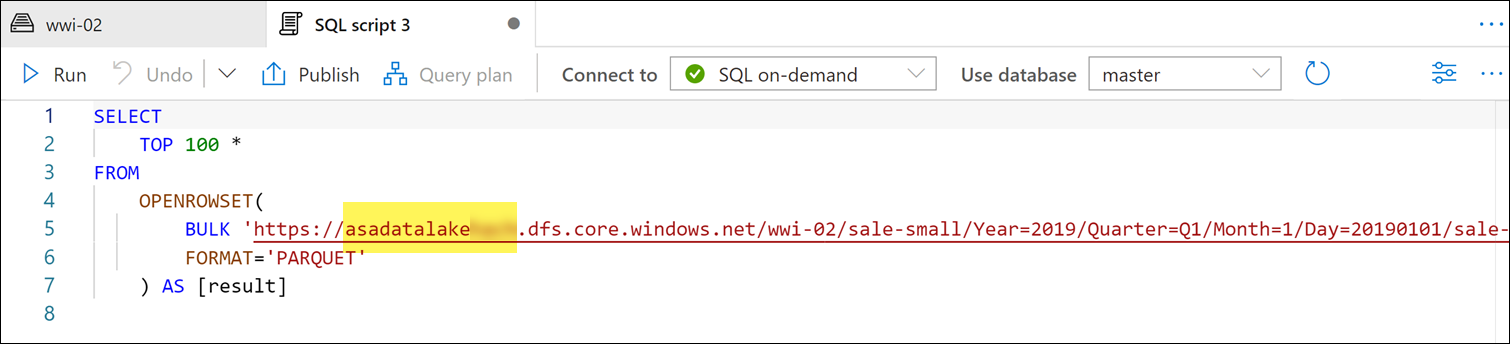
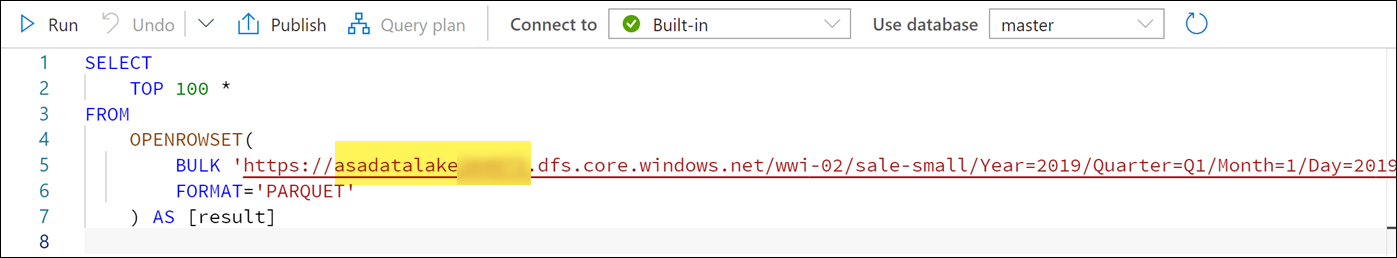
Update screenshots

diff --git a/labs/day2/lab4/README.md b/labs/day2/lab4/README.md
@@ -568,9 +568,9 @@ First, let's prepare the Power BI report query by exploring the data source we'l
 
 ### Task 2: Visualize data with SQL serverless and create a Power BI report
 
-1. In the [Azure Portal](https://portal.azure.com), navigate to your Synapse Workspace. In the **Overview** tab, **copy** the **SQL on-demand endpoint**:
+1. In the [Azure Portal](https://portal.azure.com), navigate to your Synapse Workspace. In the **Overview** tab, **copy** the **Serverless SQL endpoint**:
 
-    ![Identify endpoint for SQL on-demand.](media/sql-od-endpoint.png "SQL on-demand endpoint")
+    ![Identify endpoint for Serverless SQL endpoint.](media/serverless-sql-endpoint.png "Serverless SQL endpoint")
 
 2. Switch back to Power BI Desktop. Create a new report, then click **Get data**.
 
@@ -580,7 +580,7 @@ First, let's prepare the Power BI report query by exploring the data source we'l
 
     ![Identify endpoint for SQL on-demand.](media/pbi-get-data-synapse.png "Get Data")
 
-4. Paste the endpoint to SQL on-demand identified on the first step into the **Server** field **(1)**, enter **`demo`** for the **Database (2)**, select **DirectQuery (3)**, then **paste the query below (4)** into the expanded **Advanced options** section of the SQL Server database dialog. Finally, click **OK (5)**.
+4. Paste the endpoint to the Serverless SQL endpoint identified on the first step into the **Server** field **(1)**, enter **`demo`** for the **Database (2)**, select **DirectQuery (3)**, then **paste the query below (4)** into the expanded **Advanced options** section of the SQL Server database dialog. Finally, click **OK (5)**.
 
     ```sql
     SELECT TOP (100) [Year]
